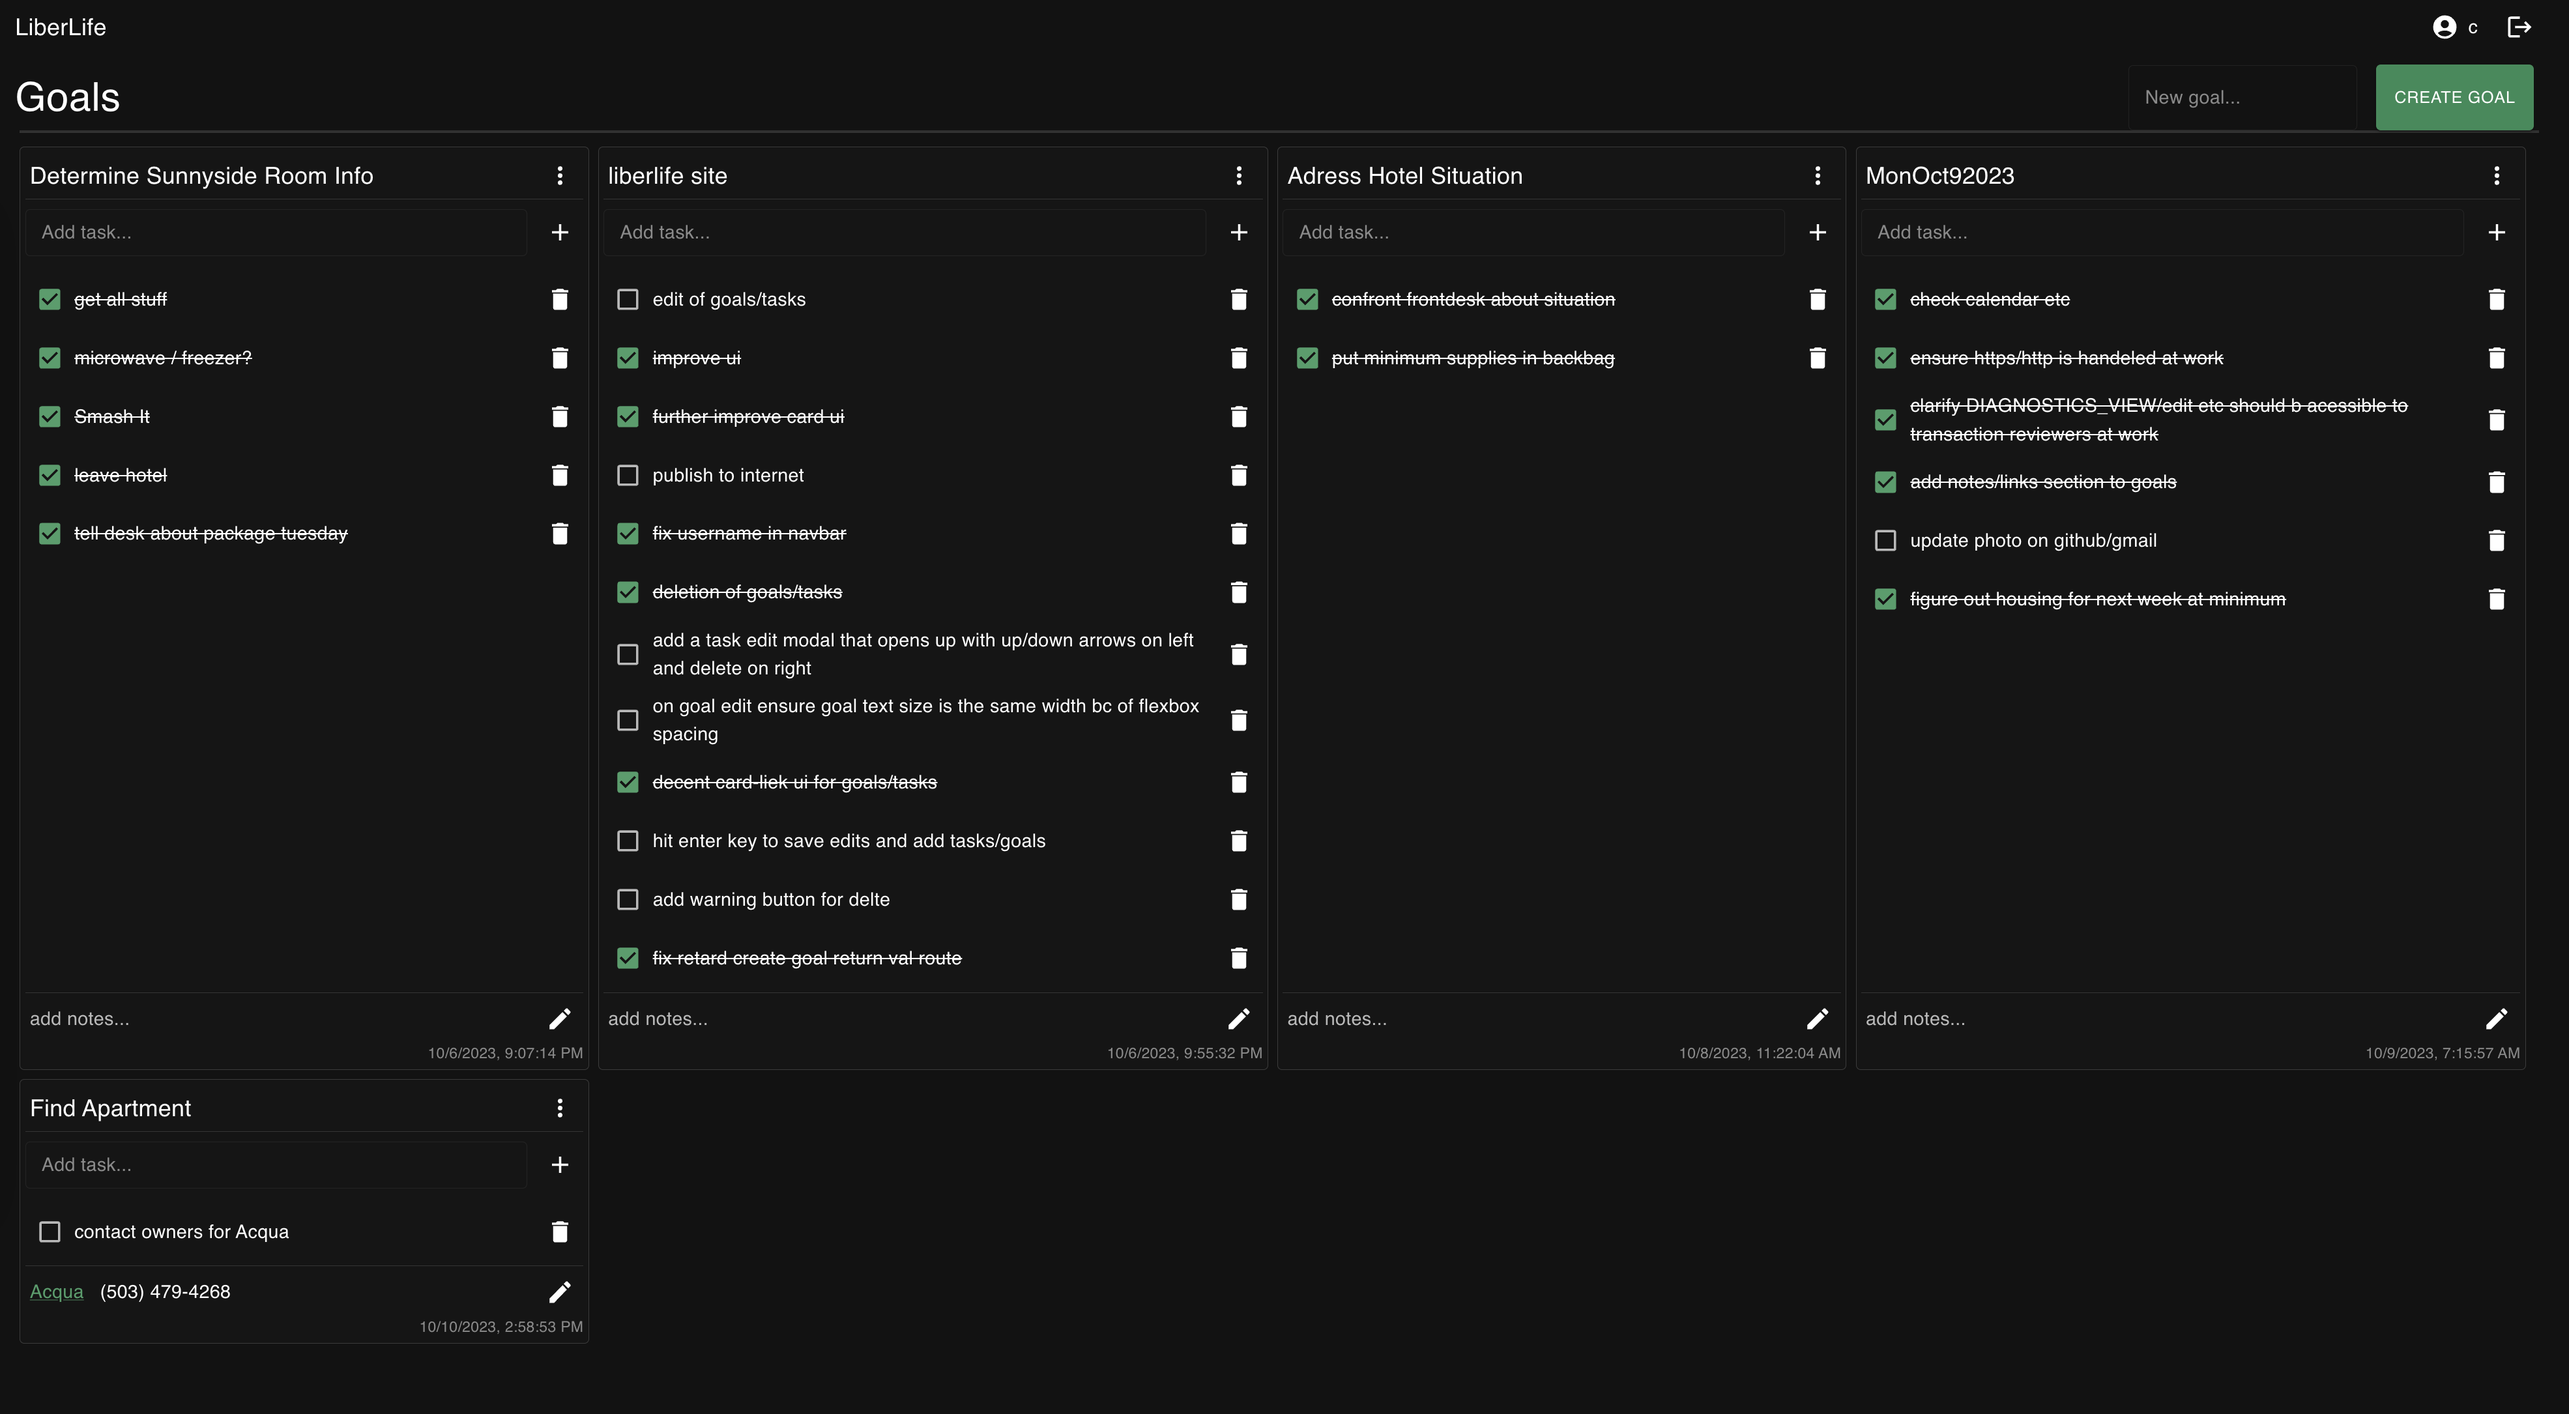
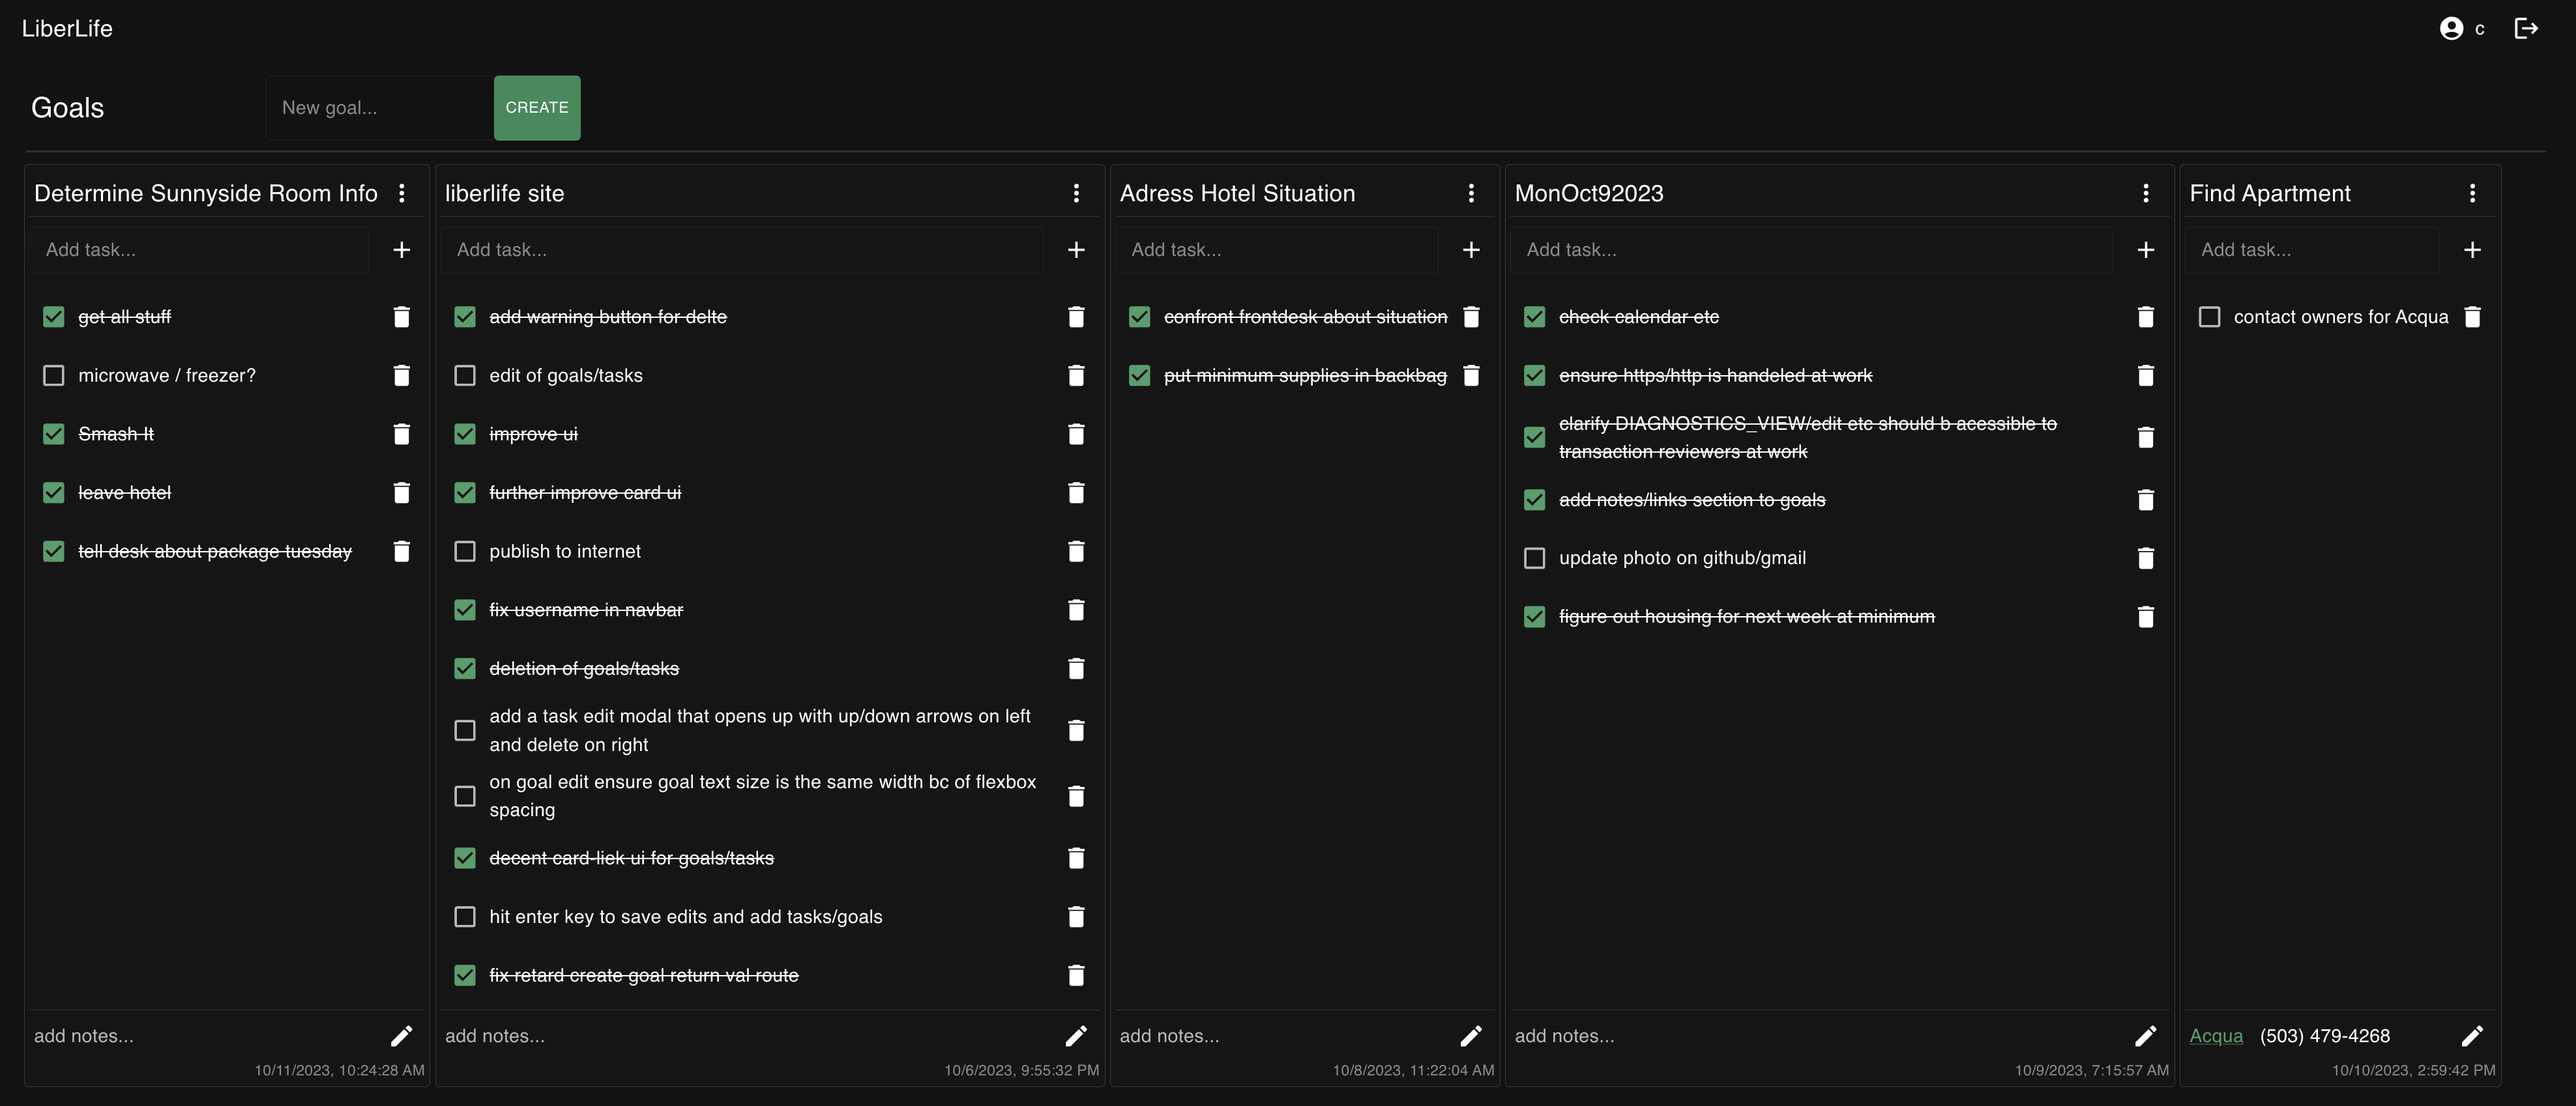
beore work fixing spacing

diff --git a/frontend/src/pages/GoalsPage/GoalBoard.tsx b/frontend/src/pages/GoalsPage/GoalBoard.tsx
@@ -55,18 +55,25 @@ const GoalBoard: React.FC<GoalBoardProps> = ({
 
 
   return (
-    <Box>
+    <Box
+      sx={{
+
+      }}
+    >
       <Box
         sx={{
           display: "flex",
           alignItems: "left",
           justifyContent: "left",
+          flexDirection: "row",
+          m: 1,
         }}
       >
         <Typography
-          variant="h4"
+          variant="h5"
           sx={{
             flexGrow: 1,
+            maxWidth: "200px",
             display: "flex",
             alignItems: "center",
           }}
@@ -79,7 +86,7 @@ const GoalBoard: React.FC<GoalBoardProps> = ({
           placeholder="New goal..."
           value={newGoalText}
           onChange={(e) => setNewGoalText(e.target.value)}
-          sx={{ mr: 2 }}
+          sx={{ mr: 0 }}
           onKeyDown={(e) => {
             if (e.key === "Enter") {
               handleAddGoal();
@@ -89,10 +96,11 @@ const GoalBoard: React.FC<GoalBoardProps> = ({
         <Button
           variant="contained"
           color="primary"
-          sx={{ mr: 1 }}
+          size="small"
+          sx={{ mr: 0.25 }}
           onClick={handleAddGoal}
         >
-          Create Goal
+          Create
         </Button>
       </Box>
 

diff --git a/frontend/src/pages/GoalsPage/GoalItem.tsx b/frontend/src/pages/GoalsPage/GoalItem.tsx
@@ -38,8 +38,7 @@ export const GoalItem: React.FC<GoalItemProps> = ({
   const [isEditing, setIsEditing] = useState<boolean>(false);
   const [editedText, setEditedText] = useState<string>("");
 
-  const maxElementWidth = "480px";
-
+  const maxElementWidth = "calc(min(480px, 100vw)) !important";
   const maxNotesWidth = `calc(${maxElementWidth} - 48px) !important`;
 
 
@@ -76,9 +75,9 @@ export const GoalItem: React.FC<GoalItemProps> = ({
     <Box
       sx={{
         backgroundColor: "#151515",
-        padding: 0.5,
+
         borderRadius: 1,
-        margin: 0.5,
+        m: 0.25, p: 0.5,
         border: "1px solid #303030",
         display: "flex", // This turns it into a flex container
         flexDirection: "column", // Stack children vertically

diff --git a/frontend/src/api/services/UserService.ts b/frontend/src/api/services/UserService.ts
@@ -16,12 +16,12 @@ export class UserService {
     /**
      * Register
      * @param requestBody
-     * @returns UserOut Successful Response
+     * @returns Token Successful Response
      * @throws ApiError
      */
     public static registerURegisterPost(
         requestBody: UserIn,
-    ): CancelablePromise<UserOut> {
+    ): CancelablePromise<Token> {
         return __request(OpenAPI, {
             method: 'POST',
             url: '/u/register',

diff --git a/frontend/src/pages/GoalsPage/index.tsx b/frontend/src/pages/GoalsPage/index.tsx
@@ -224,7 +224,7 @@ const GoalsPage: React.FC = () => {
     <Container
       maxWidth={false}
       sx={{
-        m: 0,
+        m: 0, p: 0,
       }}
     >
       <GoalBoard
